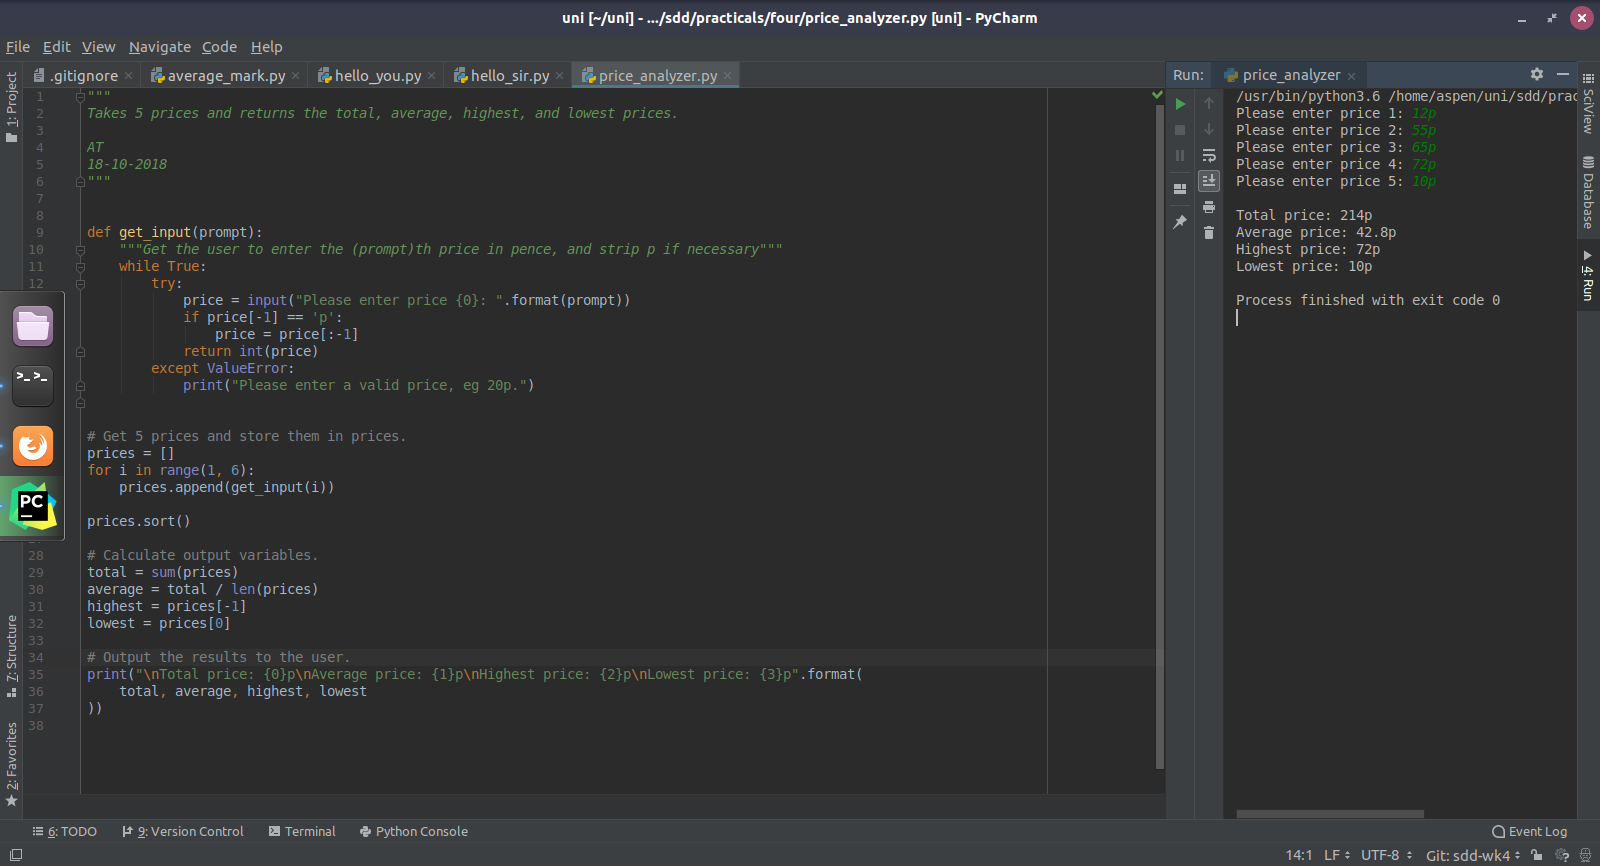
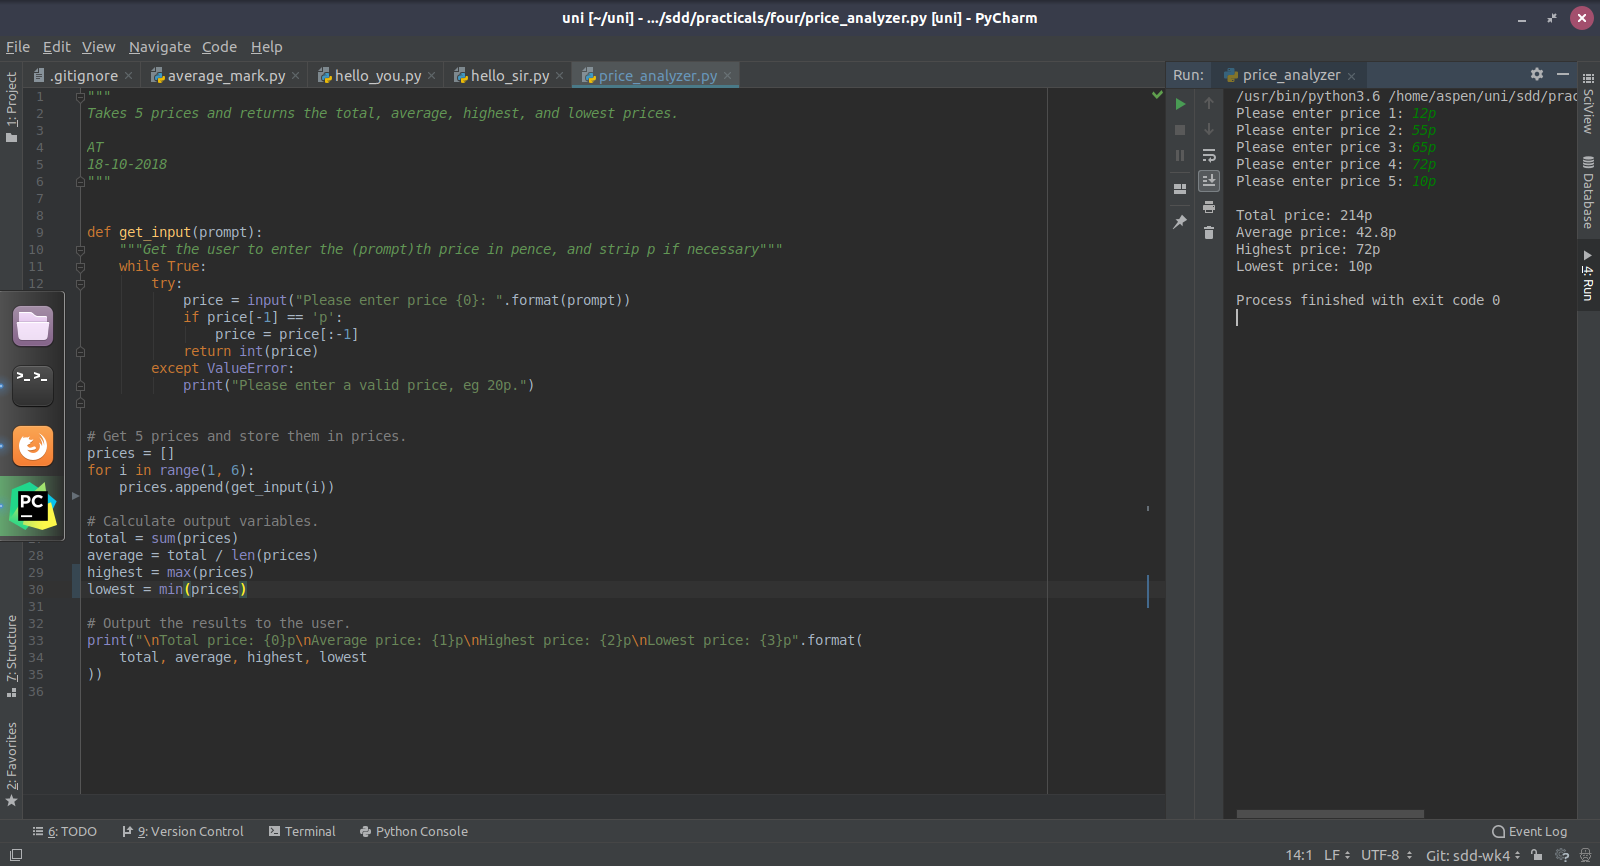
changed to use max and min

diff --git a/sdd/practicals/four/price_analyzer.py b/sdd/practicals/four/price_analyzer.py
@@ -23,13 +23,11 @@ prices = []
 for i in range(1, 6):
     prices.append(get_input(i))
 
-prices.sort()
-
 # Calculate output variables.
 total = sum(prices)
 average = total / len(prices)
-highest = prices[-1]
-lowest = prices[0]
+highest = max(prices)
+lowest = min(prices)
 
 # Output the results to the user.
 print("\nTotal price: {0}p\nAverage price: {1}p\nHighest price: {2}p\nLowest price: {3}p".format(
